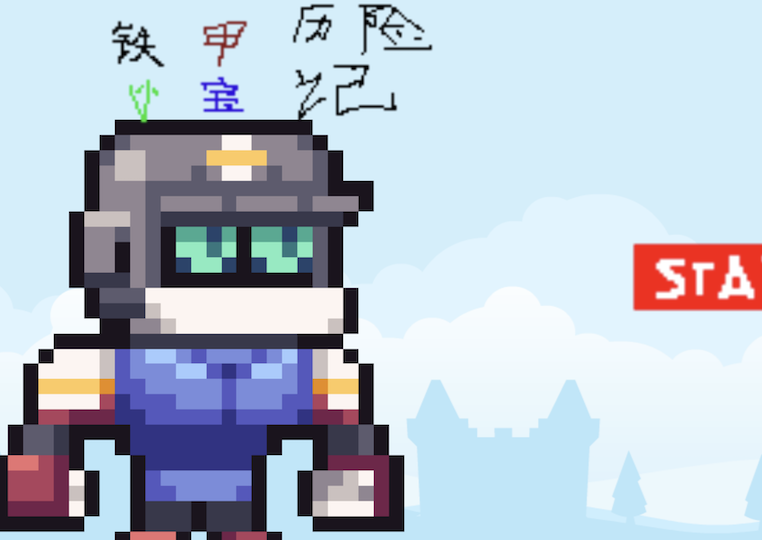
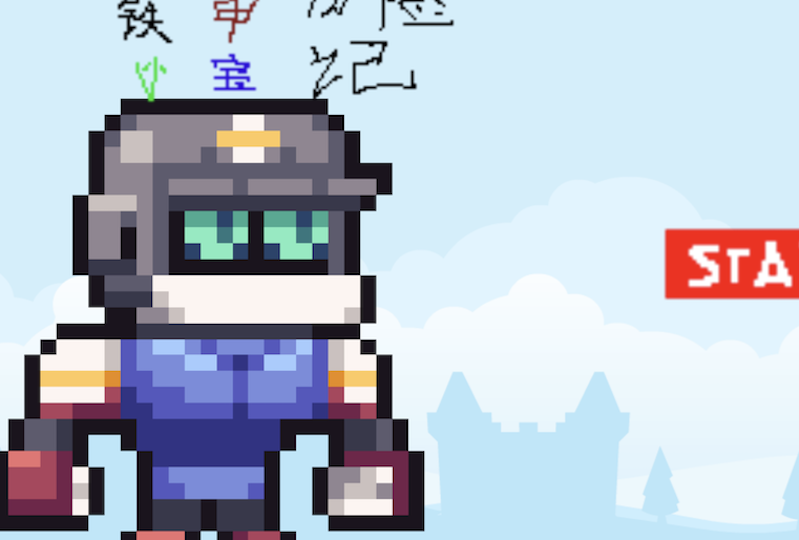
change image size

diff --git a/contributors/styles.css b/contributors/styles.css
@@ -22,9 +22,27 @@ header {
     margin-bottom: 20px;
 }
 
+header {
+    background-color: #FF8364; /* Bright Orange */
+    color: white;
+    padding: 10px;
+    width: 100%;
+    height: 300px;
+    text-align: center;
+    box-shadow: 0 5px 10px rgba(0, 0, 0, 0.3);
+    border-radius: 10px;
+    margin-bottom: 20px;
+}
+
+header h3 {
+    padding-top: 50px;
+    font-size: 100px;
+}
+
 header h1 {
+    padding-top: 50px;
     margin: 10px 0;
-    font-size: 24px;
+    font-size: 100px;
 }
 
 .game-details {

diff --git a/contributors/chenjiarui.html b/contributors/chenjiarui.html
@@ -4,12 +4,12 @@
     <meta charset="UTF-8">
     <meta http-equiv="content-type" content="application/pdf; charset=UTF-8">
     <meta name="viewport" content="width=device-width, initial-scale=1.0">
-    <title>游戏详情</title>
+    <title>开发者主页</title>
     <link rel="stylesheet" href="styles.css">
 </head>
 <body>
     <header>
-        <h1>游戏展示</h1>
+        <h1>开发者主页</h1>
     </header>
 
     <div style="margin-bottom: 20px;">

diff --git a/contributors/haohaoran.html b/contributors/haohaoran.html
@@ -4,12 +4,12 @@
     <meta charset="UTF-8">
     <meta http-equiv="content-type" content="application/pdf; charset=UTF-8">
     <meta name="viewport" content="width=device-width, initial-scale=1.0">
-    <title>游戏详情</title>
+    <title>开发者主页</title>
     <link rel="stylesheet" href="styles.css">
 </head>
 <body>
     <header>
-        <h1>游戏展示</h1>
+        <h1>开发者主页</h1>
     </header>
 
     <div style="margin-bottom: 20px;">

diff --git a/contributors/zengyoucheng.html b/contributors/zengyoucheng.html
@@ -4,12 +4,12 @@
     <meta charset="UTF-8">
     <meta http-equiv="content-type" content="application/pdf; charset=UTF-8">
     <meta name="viewport" content="width=device-width, initial-scale=1.0">
-    <title>游戏详情</title>
+    <title>开发者主页</title>
     <link rel="stylesheet" href="styles.css">
 </head>
 <body>
     <header>
-        <h1>游戏展示</h1>
+        <h1>开发者主页</h1>
     </header>
 
     <div style="margin-bottom: 20px;">

diff --git a/contributors/zhangjunliang.html b/contributors/zhangjunliang.html
@@ -4,12 +4,12 @@
     <meta charset="UTF-8">
     <meta http-equiv="content-type" content="application/pdf; charset=UTF-8">
     <meta name="viewport" content="width=device-width, initial-scale=1.0">
-    <title>游戏详情</title>
+    <title>开发者主页</title>
     <link rel="stylesheet" href="styles.css">
 </head>
 <body>
     <header>
-        <h1>游戏展示</h1>
+        <h1>开发者主页</h1>
     </header>
 
     <div style="margin-bottom: 20px;">
